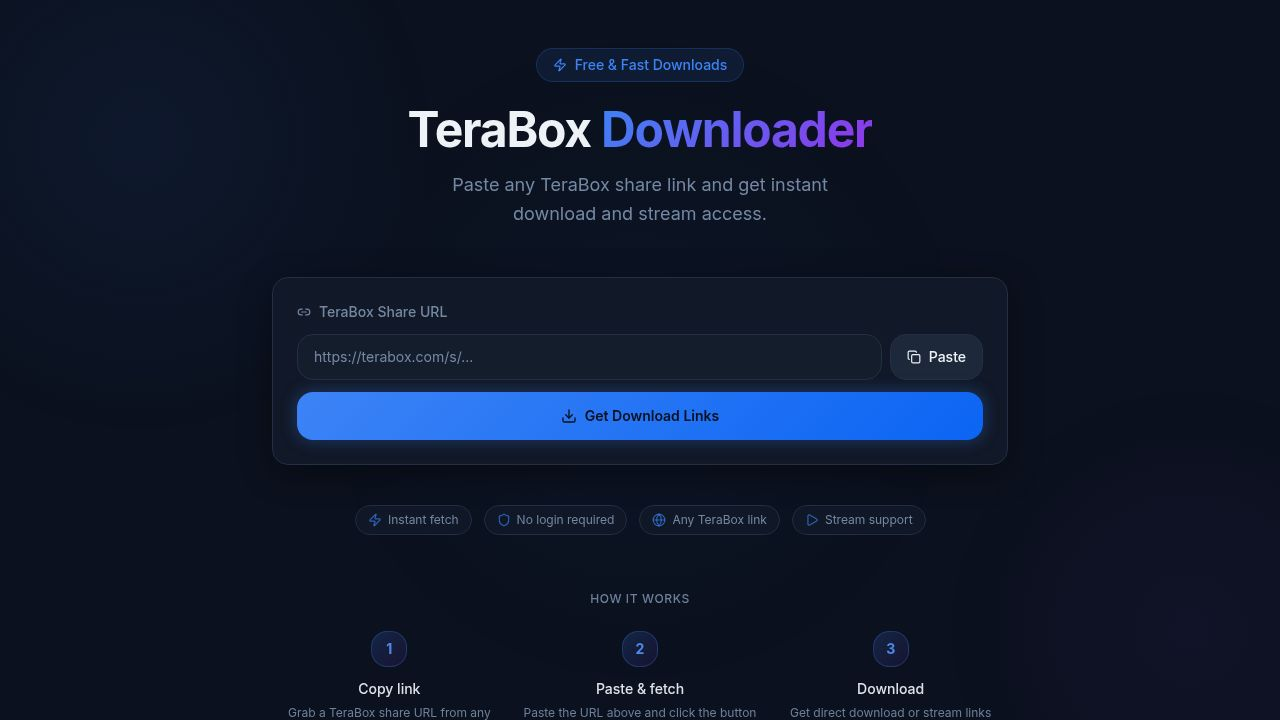
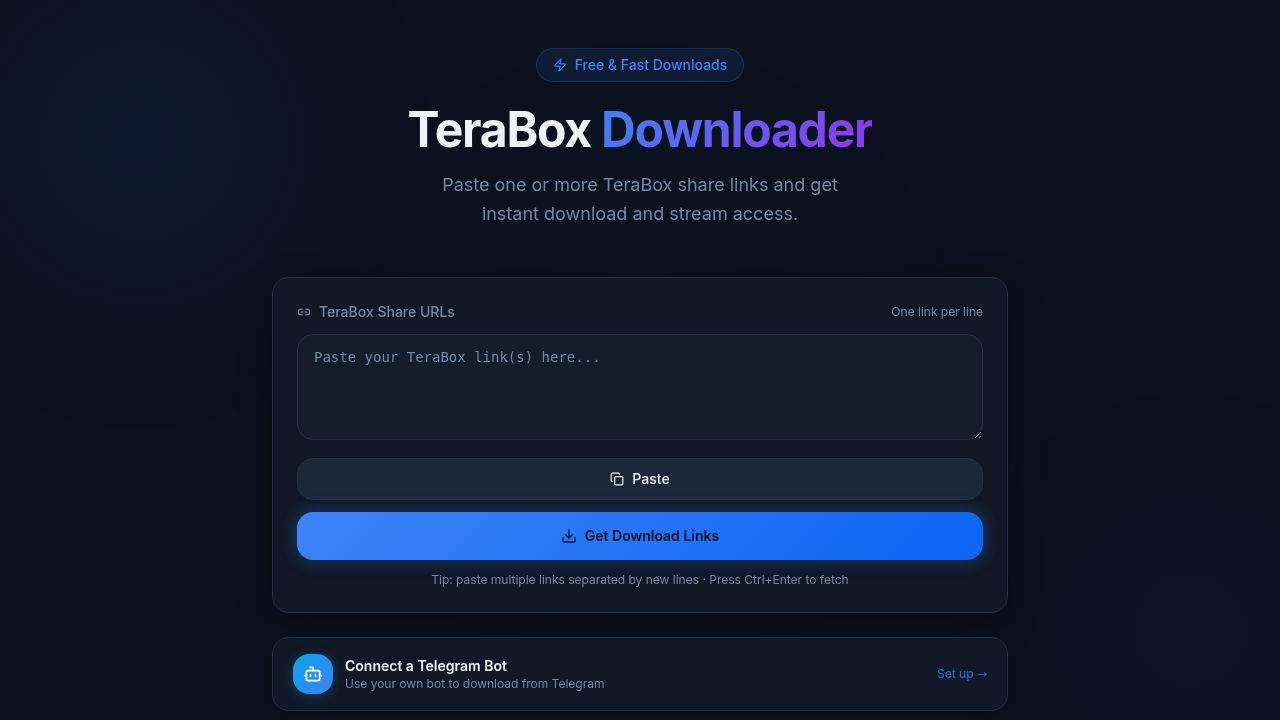
Add folder support for viewing and downloading multiple files
Update API server to handle multiple files per link and send them individually, while the frontend now displays folders with a collapsible list of files and supports more terabox-related domains.

Replit-Commit-Author: Agent
Replit-Commit-Session-Id: 2434162f-fa17-4025-9e10-e43ccd8a722f
Replit-Commit-Checkpoint-Type: full_checkpoint
Replit-Commit-Event-Id: 4b12fc2b-d303-450c-8684-85d451947d82
Replit-Commit-Screenshot-Url: https://storage.googleapis.com/screenshot-production-us-central1/0b458fb2-3f7a-4ff7-8f48-9263d823fa2d/2434162f-fa17-4025-9e10-e43ccd8a722f/oQAB8tc
Replit-Helium-Checkpoint-Created: true

diff --git a/artifacts/terabox-downloader/src/pages/home.tsx b/artifacts/terabox-downloader/src/pages/home.tsx
@@ -1,5 +1,5 @@
 import { useState, useRef, useEffect } from "react";
-import { Download, Play, FileVideo, HardDrive, Clock, Link2, AlertCircle, Loader2, Copy, Check, Zap, Shield, Globe, Bot, Power, ExternalLink, Eye, EyeOff } from "lucide-react";
+import { Download, Play, FileVideo, HardDrive, Clock, Link2, AlertCircle, Loader2, Copy, Check, Zap, Shield, Globe, Bot, Power, ExternalLink, Eye, EyeOff, FolderOpen, ChevronDown, ChevronUp } from "lucide-react";
 
 interface FileData {
   file_name: string;
@@ -25,7 +25,7 @@ interface ApiResponse {
 interface LinkResult {
   url: string;
   status: "loading" | "success" | "error";
-  data?: FileData;
+  files?: FileData[];
   error?: string;
 }
 
@@ -143,7 +143,8 @@ export default function Home() {
   const isValidTeraboxUrl = (u: string) => {
     try {
       const parsed = new URL(u);
-      return parsed.hostname.includes("terabox") || parsed.hostname.includes("1024terabox") || parsed.hostname.includes("mirrobox") || u.includes("terabox");
+      const host = parsed.hostname.toLowerCase();
+      return /(terabox|1024terabox|mirrobox|teraboxshare|terasharelink|nephobox|momerybox|tibibox|4funbox|teraboxapp|teraboxlink)/.test(host);
     } catch {
       return false;
     }
@@ -169,7 +170,7 @@ export default function Home() {
       if (!json.success || !json.data || json.data.length === 0) {
         throw new Error("Could not fetch file data. The link may be invalid or expired.");
       }
-      return { url, status: "success", data: json.data[0] };
+      return { url, status: "success", files: json.data };
     } catch (err: unknown) {
       let msg = "An unexpected error occurred.";
       if (err instanceof DOMException && err.name === "AbortError") {
@@ -798,10 +799,29 @@ function ResultCard({ result, index, copiedUrl, onCopy, formatBytes, getStreamUr
   }
 
   // Success state
-  if (!result.data) {
+  if (!result.files || result.files.length === 0) {
     return null;
   }
-  const data = result.data;
+  const files = result.files;
+
+  // Folder view (multiple files)
+  if (files.length > 1) {
+    return (
+      <FolderCard
+        files={files}
+        shareUrl={result.url}
+        index={index}
+        copiedUrl={copiedUrl}
+        onCopy={onCopy}
+        formatBytes={formatBytes}
+        getStreamUrl={getStreamUrl}
+        hasStream={hasStream}
+      />
+    );
+  }
+
+  // Single-file view
+  const data = files[0]!;
   return (
     <div
       className="w-full rounded-2xl border border-card-border bg-card overflow-hidden animate-in fade-in slide-in-from-bottom-2 duration-400"
@@ -933,6 +953,185 @@ function ResultCard({ result, index, copiedUrl, onCopy, formatBytes, getStreamUr
             </button>
           </div>
         )}
+      </div>
+    </div>
+  );
+}
+
+interface FolderCardProps {
+  files: FileData[];
+  shareUrl: string;
+  index: number;
+  copiedUrl: string | null;
+  onCopy: (text: string) => void;
+  formatBytes: (bytes: number) => string;
+  getStreamUrl: (data: FileData) => string;
+  hasStream: (data: FileData) => boolean;
+}
+
+function FolderCard({
+  files,
+  shareUrl,
+  index,
+  copiedUrl,
+  onCopy,
+  formatBytes,
+  getStreamUrl,
+  hasStream,
+}: FolderCardProps) {
+  const [expanded, setExpanded] = useState(true);
+  const totalBytes = files.reduce((sum, f) => sum + (Number(f.file_size_bytes) || 0), 0);
+
+  return (
+    <div
+      className="w-full rounded-2xl border border-card-border bg-card overflow-hidden animate-in fade-in slide-in-from-bottom-2 duration-400"
+      style={{ boxShadow: "0 8px 32px rgba(0,0,0,0.4)", animationDelay: `${index * 50}ms` }}
+    >
+      {/* Folder header */}
+      <button
+        onClick={() => setExpanded((v) => !v)}
+        className="w-full flex items-center gap-4 p-5 border-b border-border hover:bg-secondary/30 transition-colors text-left"
+      >
+        <div
+          className="w-12 h-12 rounded-xl flex items-center justify-center shrink-0"
+          style={{
+            background: "linear-gradient(135deg, hsl(271 81% 56%), hsl(217 91% 60%))",
+            boxShadow: "0 4px 16px hsl(271 81% 56% / 0.3)",
+          }}
+        >
+          <FolderOpen className="w-6 h-6 text-white" />
+        </div>
+        <div className="flex-1 min-w-0">
+          <p className="font-semibold text-foreground text-sm">
+            Folder &middot; {files.length} files
+          </p>
+          <p className="text-xs text-muted-foreground truncate" title={shareUrl}>
+            {totalBytes > 0 ? formatBytes(totalBytes) : ""} {totalBytes > 0 ? "· " : ""}{shareUrl}
+          </p>
+        </div>
+        {expanded ? (
+          <ChevronUp className="w-5 h-5 text-muted-foreground shrink-0" />
+        ) : (
+          <ChevronDown className="w-5 h-5 text-muted-foreground shrink-0" />
+        )}
+      </button>
+
+      {/* File list */}
+      {expanded && (
+        <div className="divide-y divide-border">
+          {files.map((file, i) => (
+            <FolderFileRow
+              key={`${file.share_id}-${i}`}
+              file={file}
+              copiedUrl={copiedUrl}
+              onCopy={onCopy}
+              formatBytes={formatBytes}
+              getStreamUrl={getStreamUrl}
+              hasStream={hasStream}
+            />
+          ))}
+        </div>
+      )}
+    </div>
+  );
+}
+
+interface FolderFileRowProps {
+  file: FileData;
+  copiedUrl: string | null;
+  onCopy: (text: string) => void;
+  formatBytes: (bytes: number) => string;
+  getStreamUrl: (data: FileData) => string;
+  hasStream: (data: FileData) => boolean;
+}
+
+function FolderFileRow({
+  file,
+  copiedUrl,
+  onCopy,
+  formatBytes,
+  getStreamUrl,
+  hasStream,
+}: FolderFileRowProps) {
+  return (
+    <div className="flex flex-col sm:flex-row gap-4 p-4">
+      {/* Thumbnail */}
+      {file.thumbnail ? (
+        <div className="w-full sm:w-28 h-32 sm:h-20 rounded-lg overflow-hidden shrink-0 border border-border bg-muted">
+          <img
+            src={file.thumbnail}
+            alt={file.file_name}
+            className="w-full h-full object-cover"
+            onError={(e) => {
+              (e.target as HTMLImageElement).style.display = "none";
+            }}
+          />
+        </div>
+      ) : (
+        <div className="w-full sm:w-28 h-32 sm:h-20 rounded-lg shrink-0 border border-border bg-muted flex items-center justify-center">
+          <FileVideo className="w-6 h-6 text-muted-foreground" />
+        </div>
+      )}
+
+      {/* Info + actions */}
+      <div className="flex-1 min-w-0 flex flex-col gap-2">
+        <p className="text-sm font-medium text-foreground truncate" title={file.file_name}>
+          {file.file_name}
+        </p>
+        <div className="flex flex-wrap gap-3 text-xs text-muted-foreground">
+          <span className="flex items-center gap-1">
+            <HardDrive className="w-3 h-3 text-primary/70" />
+            {file.file_size || formatBytes(file.file_size_bytes)}
+          </span>
+          {file.duration && file.duration !== "00:00" && (
+            <span className="flex items-center gap-1">
+              <Clock className="w-3 h-3 text-primary/70" />
+              {file.duration}
+            </span>
+          )}
+        </div>
+        <div className="flex flex-wrap gap-2 mt-1">
+          {file.download_url && (
+            <a
+              href={file.download_url}
+              target="_blank"
+              rel="noopener noreferrer"
+              className="flex items-center gap-1.5 px-3 py-2 rounded-lg text-xs font-semibold transition-all duration-200 hover:opacity-90 active:scale-[0.98]"
+              style={{
+                background: "linear-gradient(135deg, hsl(217 91% 60%), hsl(217 91% 50%))",
+                color: "hsl(222 47% 8%)",
+              }}
+            >
+              <Download className="w-3.5 h-3.5" />
+              Download
+            </a>
+          )}
+          {hasStream(file) && (
+            <a
+              href={getStreamUrl(file)}
+              target="_blank"
+              rel="noopener noreferrer"
+              className="flex items-center gap-1.5 px-3 py-2 rounded-lg text-xs font-semibold border border-border bg-secondary hover:bg-accent text-secondary-foreground transition-all duration-200 hover:border-primary/30 active:scale-[0.98]"
+            >
+              <Play className="w-3.5 h-3.5" />
+              Stream
+            </a>
+          )}
+          {file.download_url && (
+            <button
+              onClick={() => onCopy(file.download_url)}
+              className="flex items-center gap-1.5 px-3 py-2 rounded-lg text-xs border border-input bg-secondary hover:bg-accent text-secondary-foreground transition-all duration-200"
+              title="Copy download URL"
+            >
+              {copiedUrl === file.download_url ? (
+                <Check className="w-3.5 h-3.5 text-green-400" />
+              ) : (
+                <Copy className="w-3.5 h-3.5" />
+              )}
+              Copy link
+            </button>
+          )}
+        </div>
       </div>
     </div>
   );

diff --git a/artifacts/api-server/src/lib/telegramBot.ts b/artifacts/api-server/src/lib/telegramBot.ts
@@ -265,9 +265,41 @@ async function handleUpdate(state: BotState, update: TgUpdate): Promise<void> {
   for (const url of urls) {
     try {
       const result = await fetchTeraboxInfo(url);
-      const file = result.data[0];
-      await sendFileResult(state.token, chatId, file);
-      processedHere += 1;
+      const filesInLink = result.data || [];
+      if (filesInLink.length === 0) {
+        throw new Error("No files found in this link.");
+      }
+
+      // Folder support: announce when there are multiple files
+      if (filesInLink.length > 1) {
+        await tgCall(state.token, "sendMessage", {
+          chat_id: chatId,
+          text:
+            `📂 *Folder detected* \\- ${filesInLink.length} files\n` +
+            `Sending each file below\\.\\.\\.`,
+          parse_mode: "MarkdownV2",
+        }).catch(() => {});
+      }
+
+      // Send each file (max 25 per folder to avoid spam / Telegram rate limits)
+      const MAX_PER_FOLDER = 25;
+      const toSend = filesInLink.slice(0, MAX_PER_FOLDER);
+      for (const file of toSend) {
+        try {
+          await sendFileResult(state.token, chatId, file);
+          processedHere += 1;
+        } catch (err) {
+          state.errors += 1;
+          logger.error({ err, bot: state.username }, "Failed to send a file in folder");
+        }
+      }
+      if (filesInLink.length > MAX_PER_FOLDER) {
+        await tgCall(state.token, "sendMessage", {
+          chat_id: chatId,
+          text: `ℹ Folder has ${filesInLink.length} files. Showing the first ${MAX_PER_FOLDER}. Open the original link for the rest.`,
+          disable_web_page_preview: true,
+        }).catch(() => {});
+      }
     } catch (err) {
       const errMsg = err instanceof Error ? err.message : "Unknown error";
       await tgCall(state.token, "sendMessage", {
